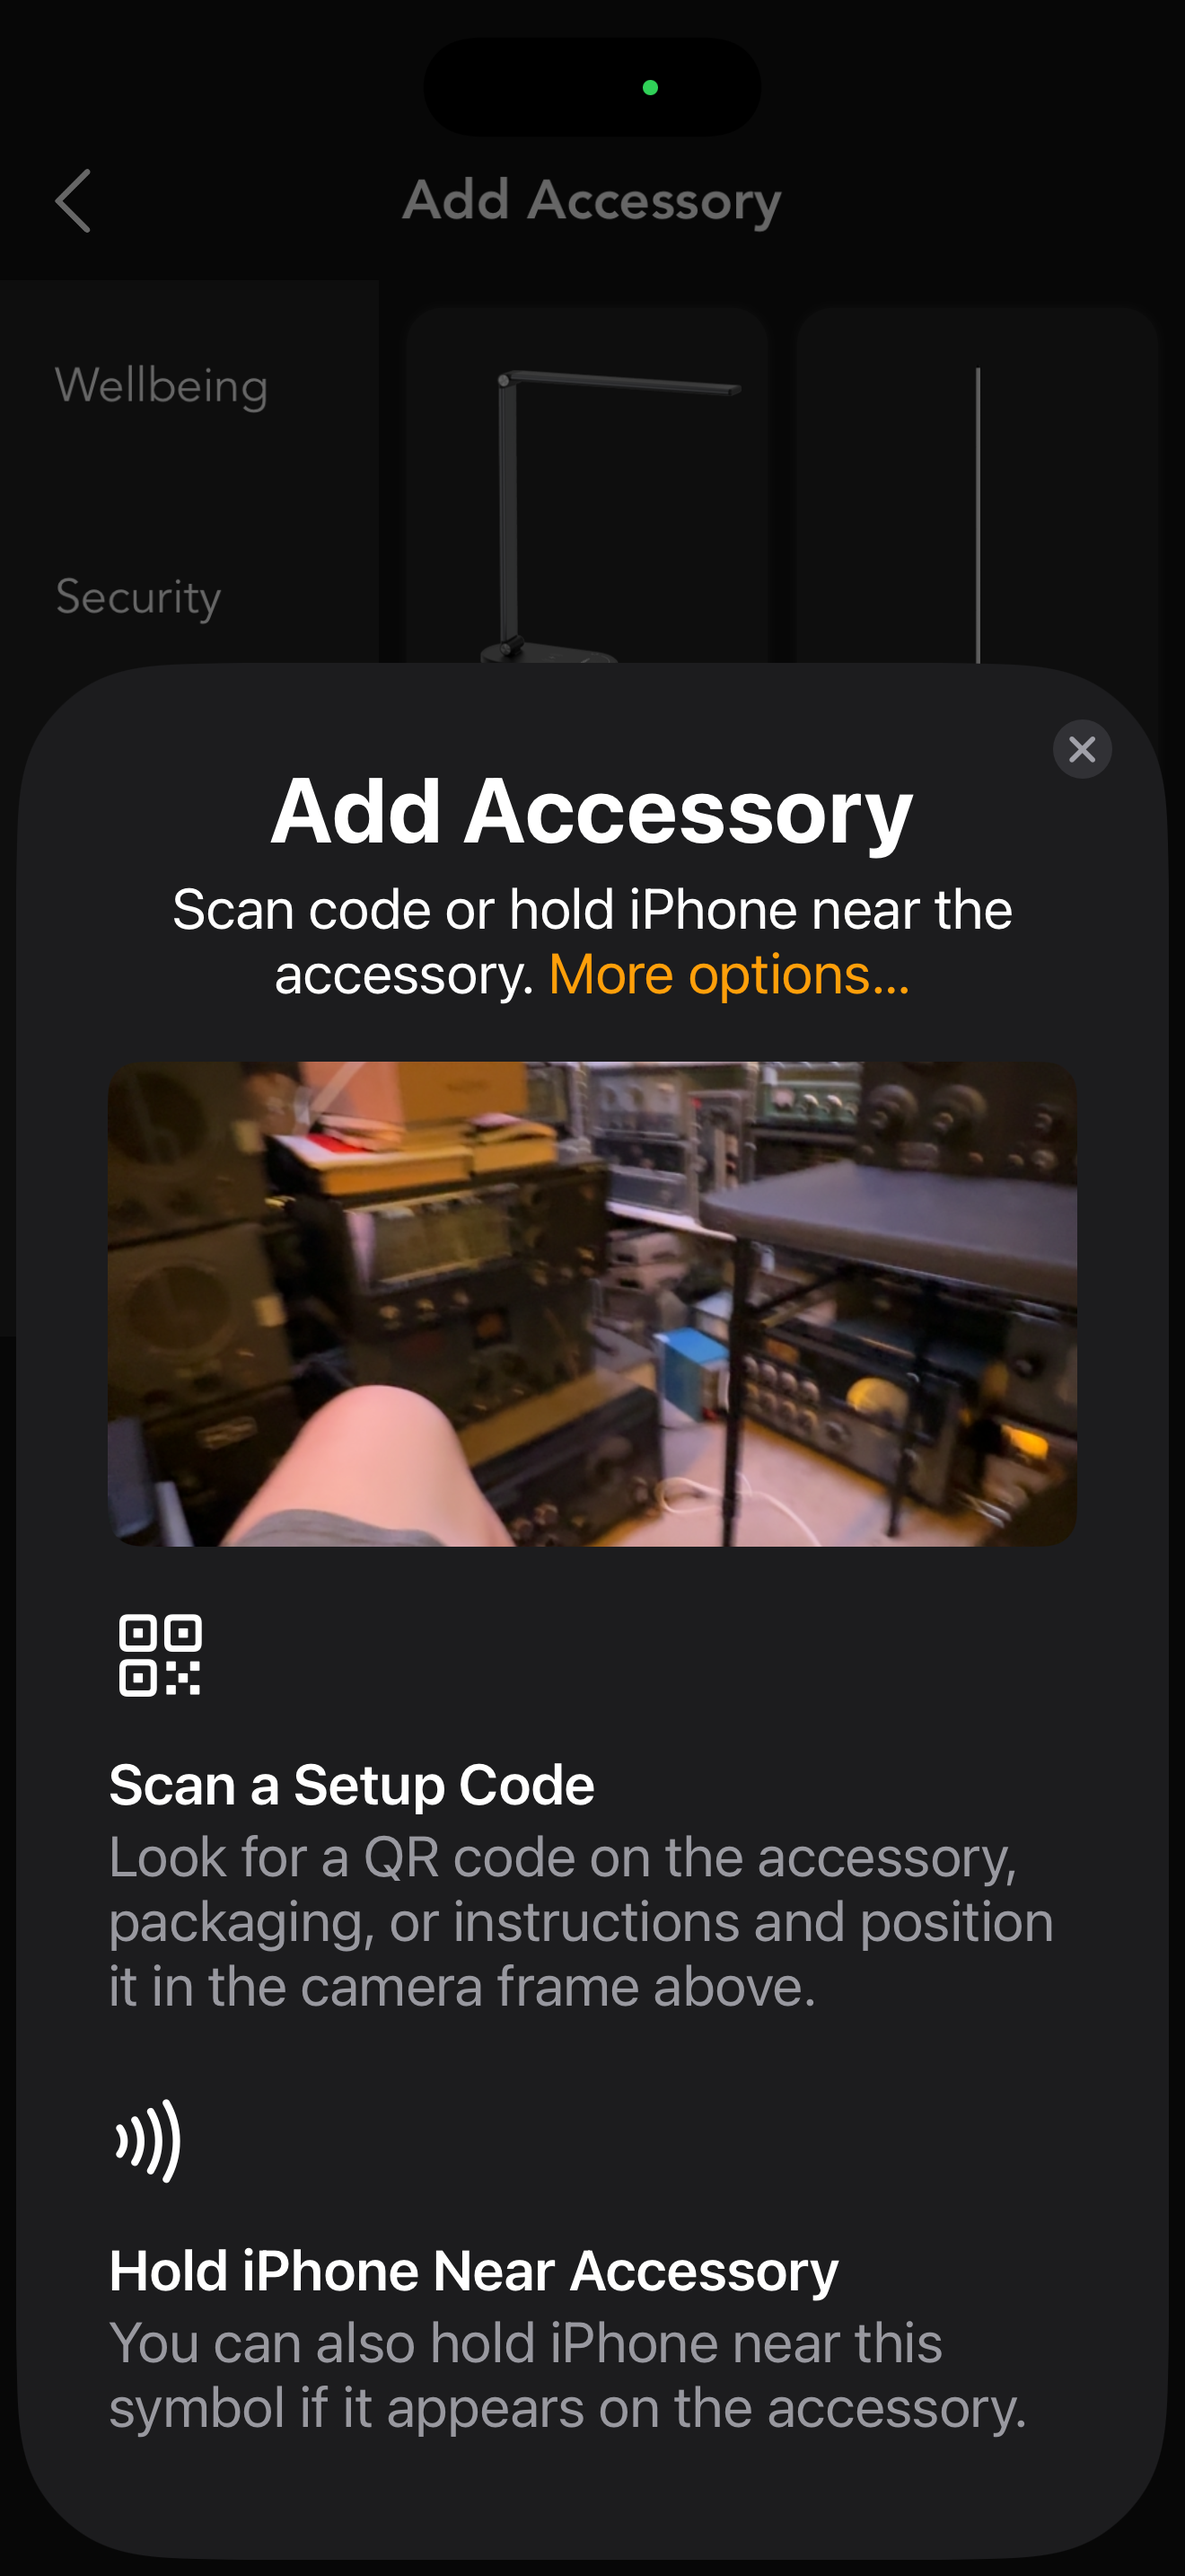
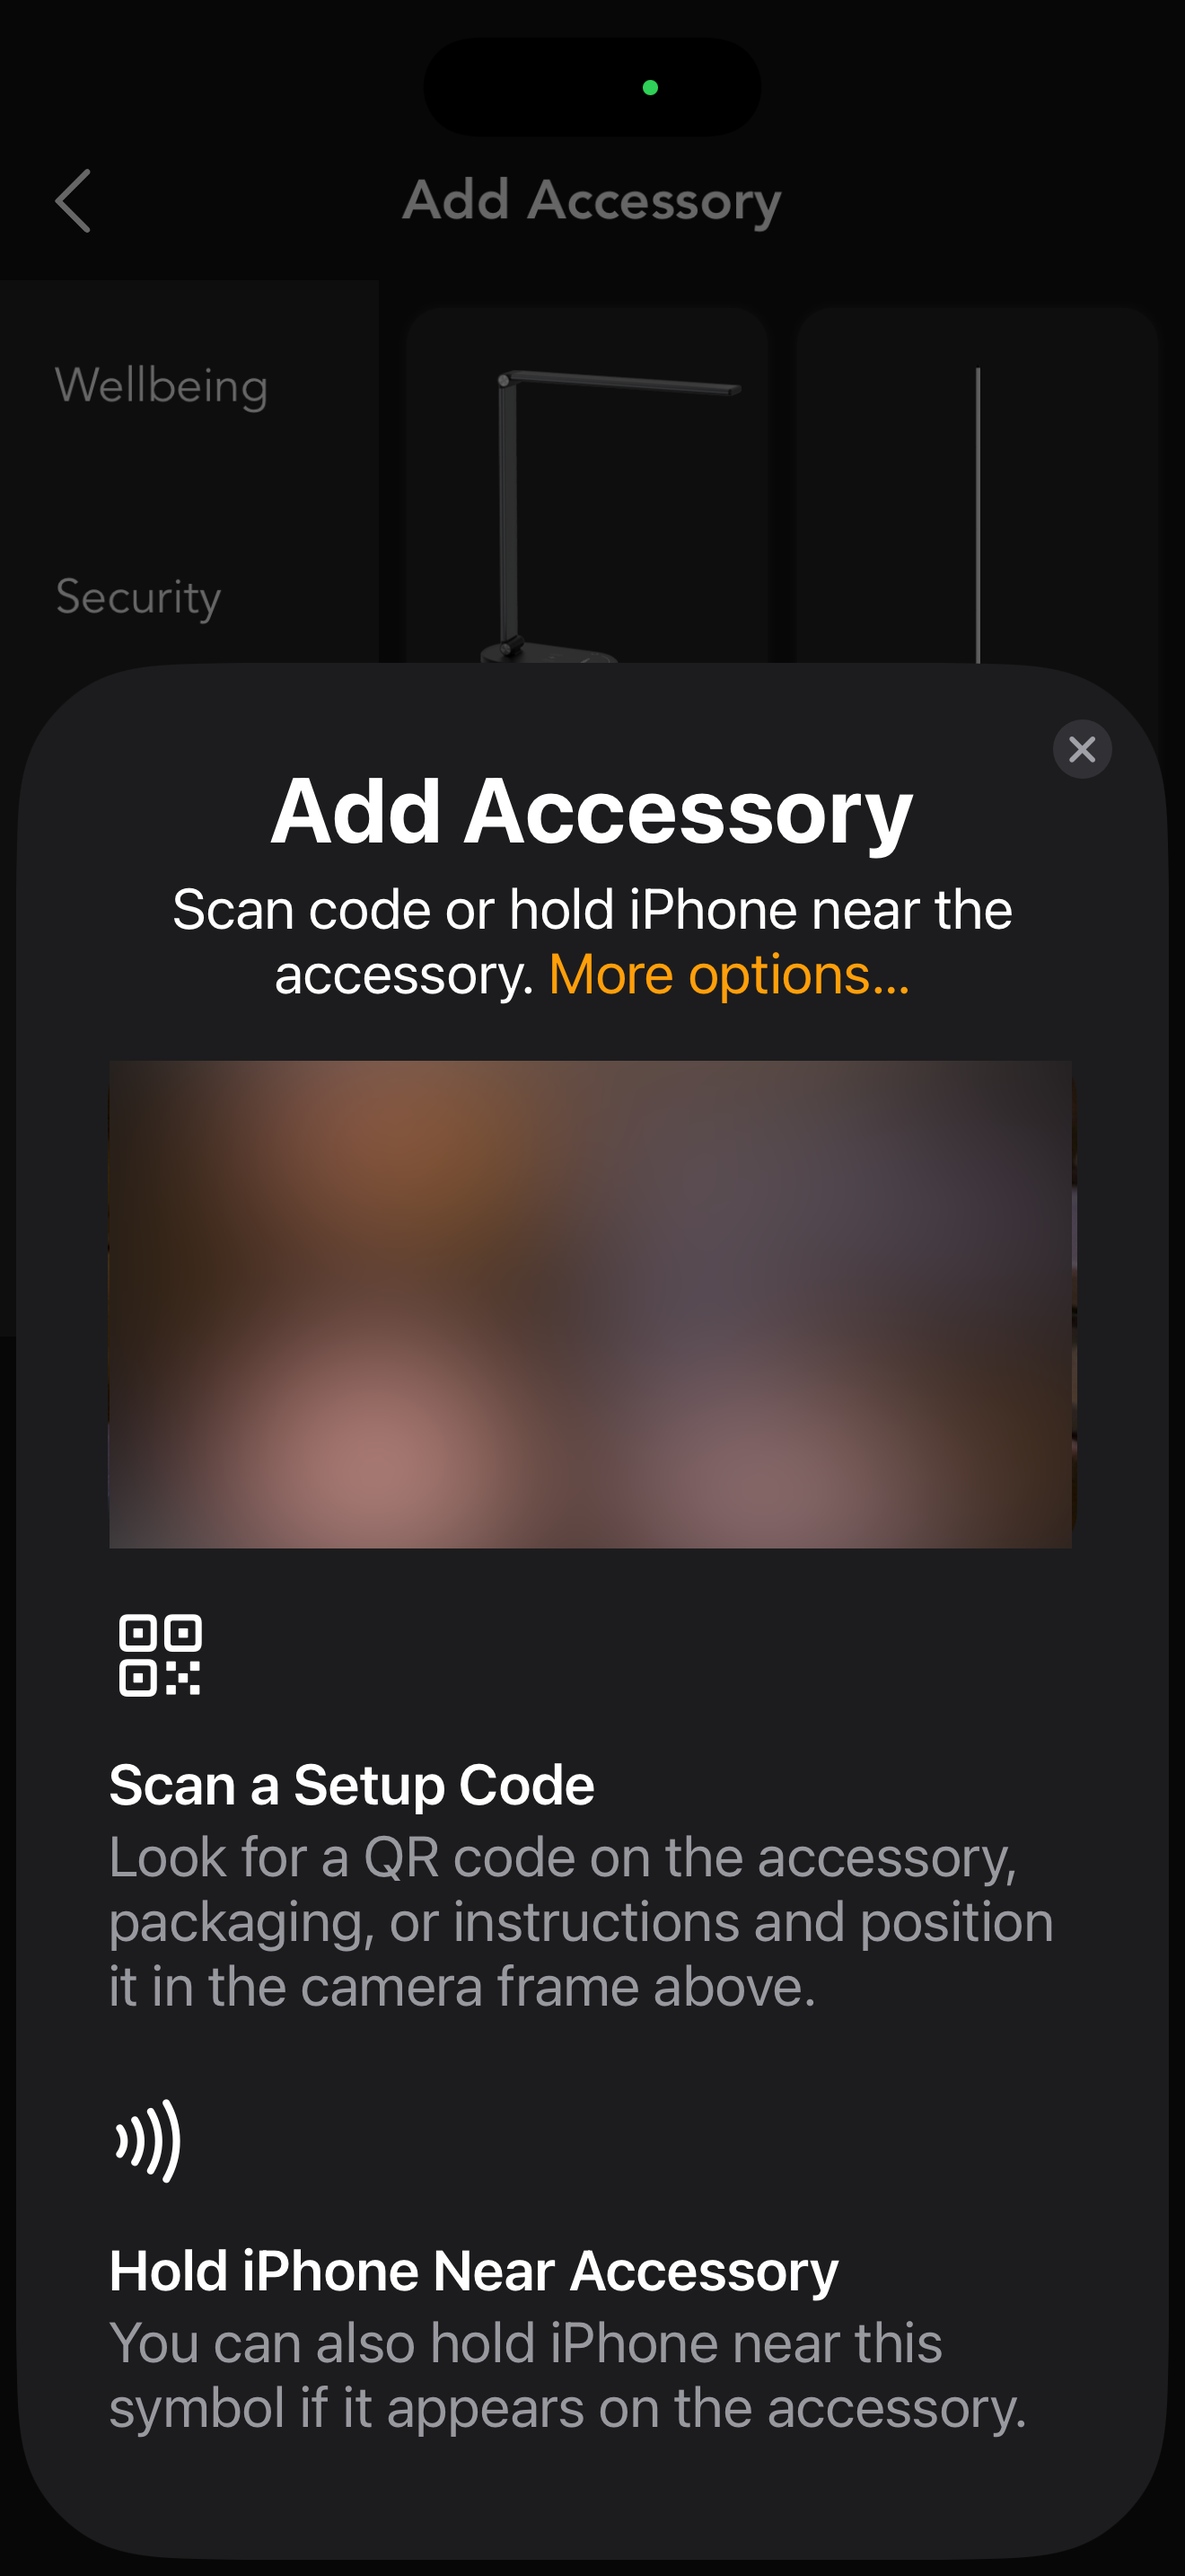
Working on App instructions

Changed region(s): [[0.0932, 0.4034, 0.9318, 0.6206]]

diff --git a/fakingit/02-app.html b/fakingit/02-app.html
@@ -26,7 +26,10 @@
             <img src="02.02-app.png" style="max-height: 717px;" alt="VocoLink App - Add a bulb - Step 2">
           </a>
         </td>
-        <td>Step 2</td>
+        <td>
+          <p><b>Step 2</b></p>
+          <p>First you need to select the accessory you are adding. In my example, I'm adding an L4 bulb (if you aren't sure check the box) so I tap on the L1/L4 option.</p>
+        </td>
       </tr>
       <tr>
         <td>
@@ -34,7 +37,10 @@
             <img src="02.03-app.png" style="max-height: 717px;" alt="VocoLink App - Add a bulb - Step 3">
           </a>
         </td>
-        <td>Step 3</td>
+        <td>
+          <p><b>Step 3</b></p>
+          <p>Follow the instructions on the screen to reset your bulb until it is flashing. Note, they flash for a few moments, then turn off for a few seconds, then turns back on. Make sure to wait for it to come back on then tap the circle by <i>Confirmed</i>, then click <i>Next</i>.</p>
+        </td>
       </tr>
       <tr>
         <td>
@@ -42,7 +48,11 @@
             <img src="02.04-app.png" style="max-height: 717px;" alt="VocoLink App - Add a bulb - Step 4">
           </a>
         </td>
-        <td>Step 4</td>
+        <td>
+          <p><b>Step 4</b></p>
+          <p>If you have easy access to the QR Code on the bulb, simply point the camera at it centering it in the blurry area (which I blurred out for this image, it's not normally blurry). </p>
+          <p>The camera will pick it up, you can then tap next to move on </p>
+        </td>
       </tr>
       <tr>
         <td>
